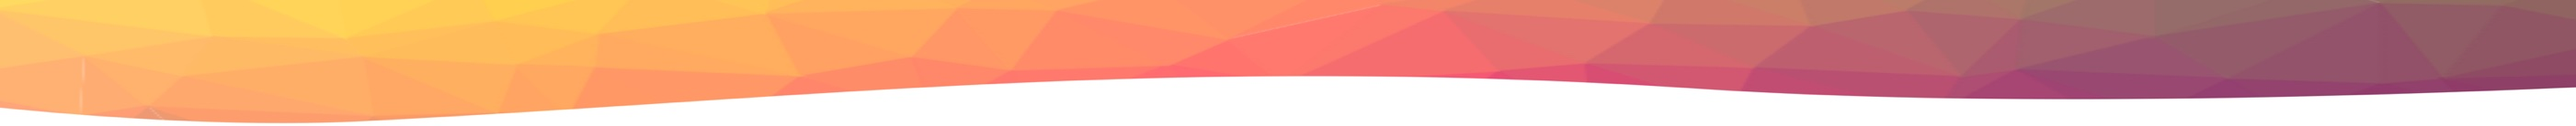
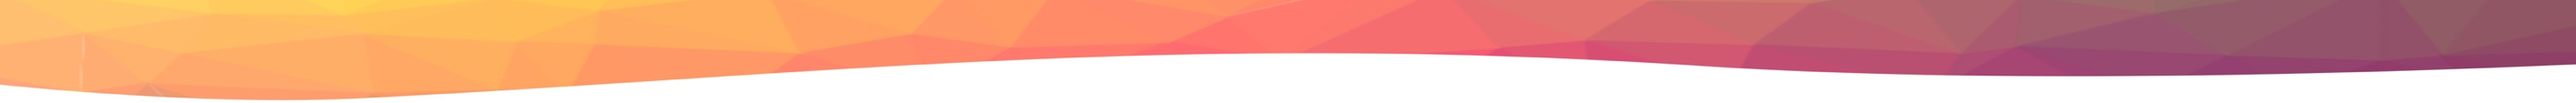
colours from chris

diff --git a/inyoka_theme_ubuntuusers/static/style/main.less b/inyoka_theme_ubuntuusers/static/style/main.less
@@ -131,7 +131,7 @@ body {
 div.wrap {
   margin: 0 auto;
   background-image:url(../img/head.jpg);
-  background-position: right top;
+  background-position: left top;
   background-repeat: no-repeat;
   background-color: #FFFFFF;
   min-width: 780px;
@@ -141,7 +141,7 @@ div.body {
   padding: 10px 0 20px 0;
 }
 a, :link, :visited {
-  color: @aubergine_s_link;
+  color: @blue_s_medium;
   text-decoration: underline;
   cursor: pointer;
 }
@@ -565,7 +565,7 @@ table.syntaxtable {
       display: block;
       width: 257px;
       height: 90px;
-      margin: 0;
+      margin: 10px;
       padding: 0;
       text-decoration: none;
       background-image: url(../img/logo.png);
@@ -894,7 +894,7 @@ button.navi_toggle_down:hover, button.navi_toggle_up:hover {
     a {
       display: block;
       padding: 0 0 0 0.4em;
-      color: @aubergine_s_link;
+      color: @blue_s_medium;
       text-decoration: none;
     }
     a:hover {
@@ -1121,7 +1121,7 @@ ul.dropdown {
       background-image: url(../img/arrow-down.gif);
       background-position: left;
       background-repeat: no-repeat;
-      color: @aubergine_s_link;
+      color: @blue_s_medium;
     }
   }
 }
@@ -1307,7 +1307,7 @@ div#database_debug_table ul li pre,div#database_debug_table table {
     margin-left: 16px;
 
     a {
-      border-right: 1px solid #A4A4A4;
+      border-right: 0px;
       display: block;
       float: left;
       color: #D4D4D4;

diff --git a/inyoka_theme_ubuntuusers/static/style/colors.less b/inyoka_theme_ubuntuusers/static/style/colors.less
@@ -33,7 +33,7 @@
 /* color naming: hue_saturation_value */
 
 /* saturated colors (text) */
-@blue_s_medium: #3168A0;
+@blue_s_medium: #007aa6;
 @green_s_light: #3EB34F;
 @green_s_medium: #3EB34F;
 @green_s_dark: #2D803A;
@@ -53,7 +53,7 @@
 @green_d_light: #3EB34F;
 @green_d_medium: #3EB34F;
 @green_d_dark: #2D803A;
-@orange_d_light: #FAD4C7;
+@orange_d_light: #F4AA90;
 @orange_d_medium: #F4AA90;
 @orange_d_dark: #E95420;
 @red_d_light: #e97610;
@@ -64,4 +64,4 @@
 @aubergine_d_dark: #2C001E;
 
 @main_background: @orange_d_medium;
-@admin_text: @green_s_medium;
+@admin_text: @orange_s_dark;

diff --git a/inyoka_theme_ubuntuusers/static/style/portal.less b/inyoka_theme_ubuntuusers/static/style/portal.less
@@ -66,7 +66,7 @@ img.cat {
   }
 }
 .container.calendar {
-  .gradient(@green_d_medium, darken(@green_d_medium, 10%), @green_d_medium);
+  .gradient(@grey_dark, darken(@grey_dark, 10%), @grey_dark);
 }
 .calendar:hover {
   color: #666;
